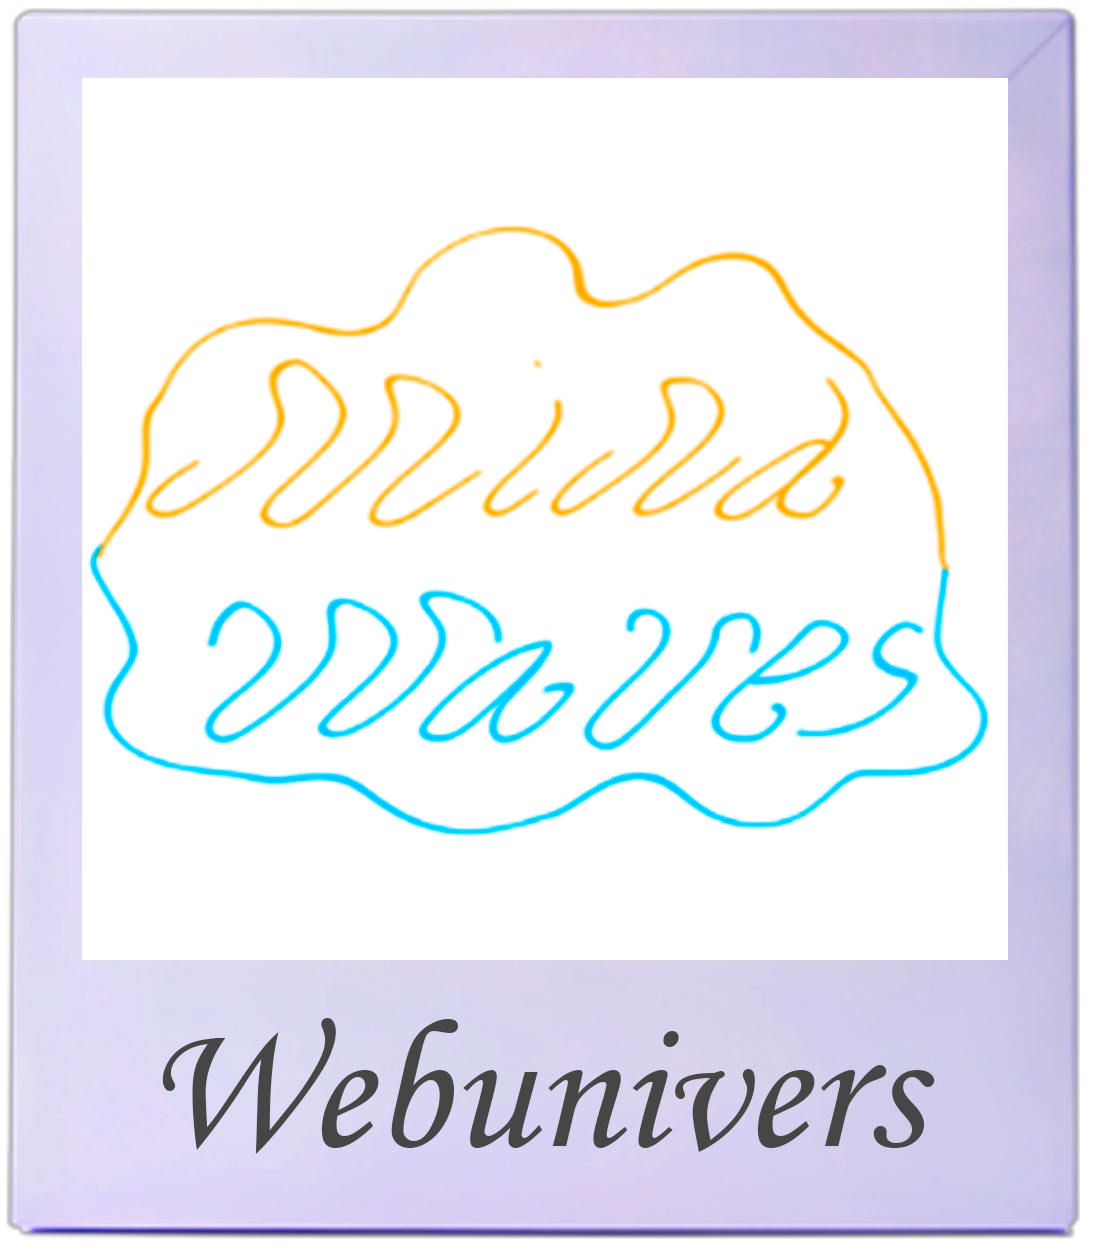
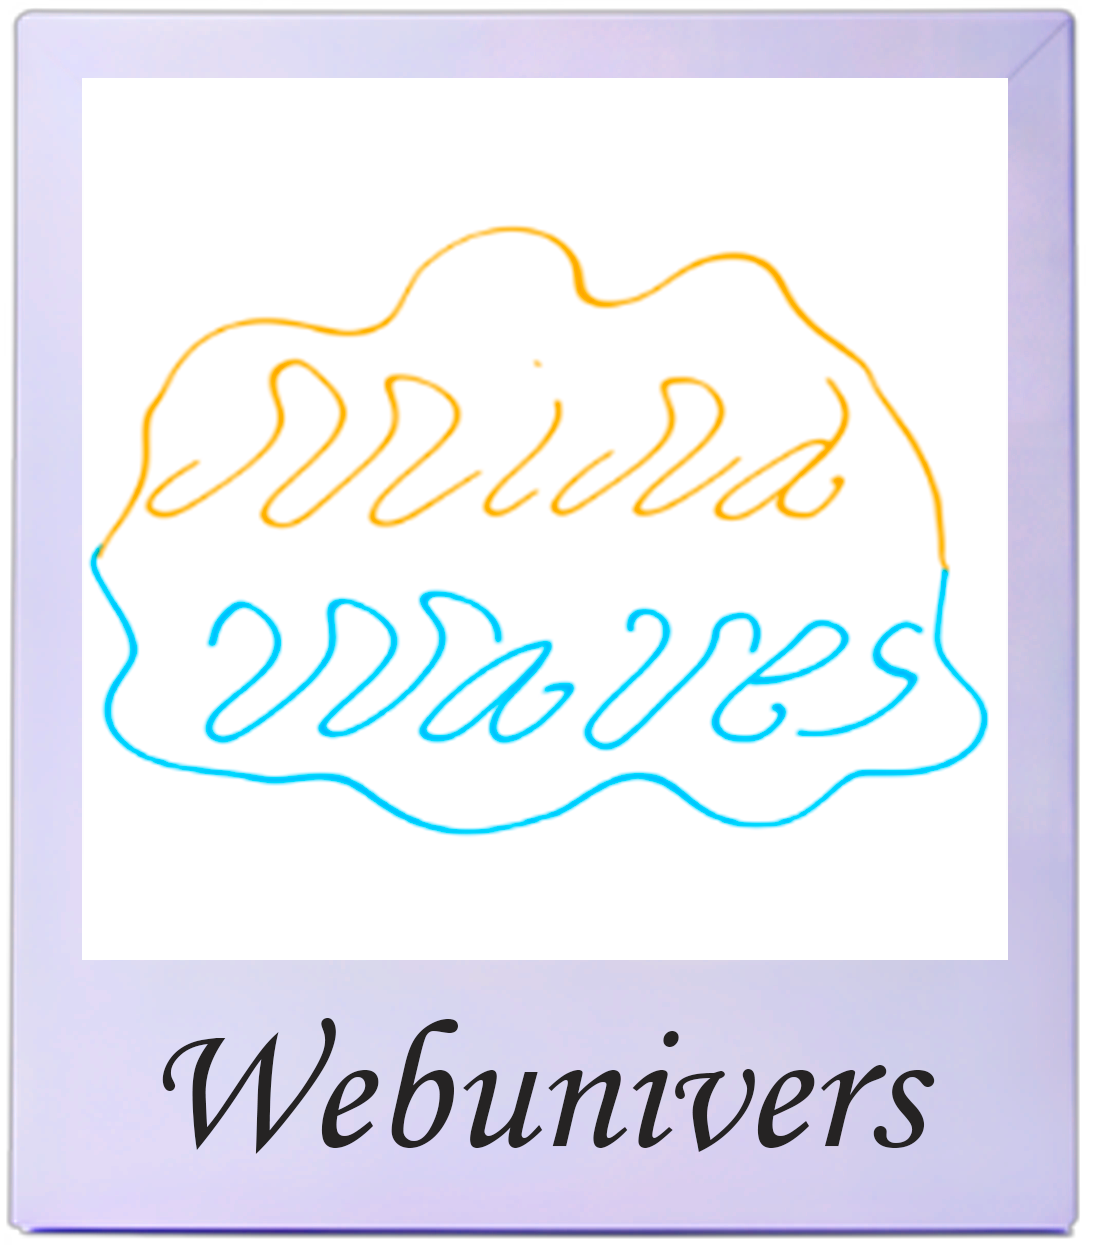
rettelse af farver

diff --git a/src/Components/Hero/Hero.module.css b/src/Components/Hero/Hero.module.css
@@ -18,7 +18,7 @@ img[alt="polaroid"] {
      font-family: 'Cormorant Garamond', serif;
      font-style: italic;
      font-size: 2.5rem;
-     color: rgb(81, 90, 99);
+     color: 292828;
      margin: 0;
      padding: 0;
 }
@@ -39,7 +39,7 @@ img[alt="polaroid"] {
     font-family: 'Cormorant Garamond', serif;
     font-style: italic;
     font-size: 1.5rem;
-    color: rgb(81, 90, 99);
+    color: 292828;
     position: relative;
 }
 
@@ -49,7 +49,7 @@ button {
     cursor: pointer;
     border: none;
     background-color: #bfdaf7;
-    color: rgb(81, 90, 99);
+    color: 292828;
     font-family: 'Cormorant Garamond', serif;
     font-style: italic;
     font-weight: bold;

diff --git a/src/Components/AboutMe/AboutMe.module.css b/src/Components/AboutMe/AboutMe.module.css
@@ -37,14 +37,14 @@
   height: 100vh;
   font-family: 'Cormorant Garamond', serif;
   font-style: italic;
-  color: rgb(81, 90, 99);
+  color: 292828;
 }
 
 .aboutMeText {
     font-family: 'Cormorant Garamond', serif;
     font-style: italic;
     font-size: 3rem;
-    color: rgb(81, 90, 99);
+    color: 292828;
     padding-top: 3vh;
     text-align: center;
 }

diff --git a/src/Components/ContactSection/ContactSection.module.css b/src/Components/ContactSection/ContactSection.module.css
@@ -20,7 +20,7 @@
     background-repeat: no-repeat;
     font-family: 'Cormorant Garamond', serif;
     font-style: italic;
-    color: rgb(81, 90, 99);
+    color: 292828;
 }
 
 .contactSectionText {

diff --git a/src/Components/ProjectsSection/ProjectsSection.module.css b/src/Components/ProjectsSection/ProjectsSection.module.css
@@ -9,7 +9,7 @@
 	background-repeat: no-repeat;
 	font-family: 'Cormorant Garamond', serif;
 	font-style: italic;
-	color: rgb(81, 90, 99);
+	color: 292828;
 }
 
 .projectsSectionText {

diff --git a/src/Components/SkillSection/SkillSection.module.css b/src/Components/SkillSection/SkillSection.module.css
@@ -25,7 +25,7 @@
 .skillSectionBg {
     font-family: 'Cormorant Garamond', serif;
     font-style: italic;
-    color: rgb(81, 90, 99);
+    color: 292828;
 }
 
 .skillSectionBg {
